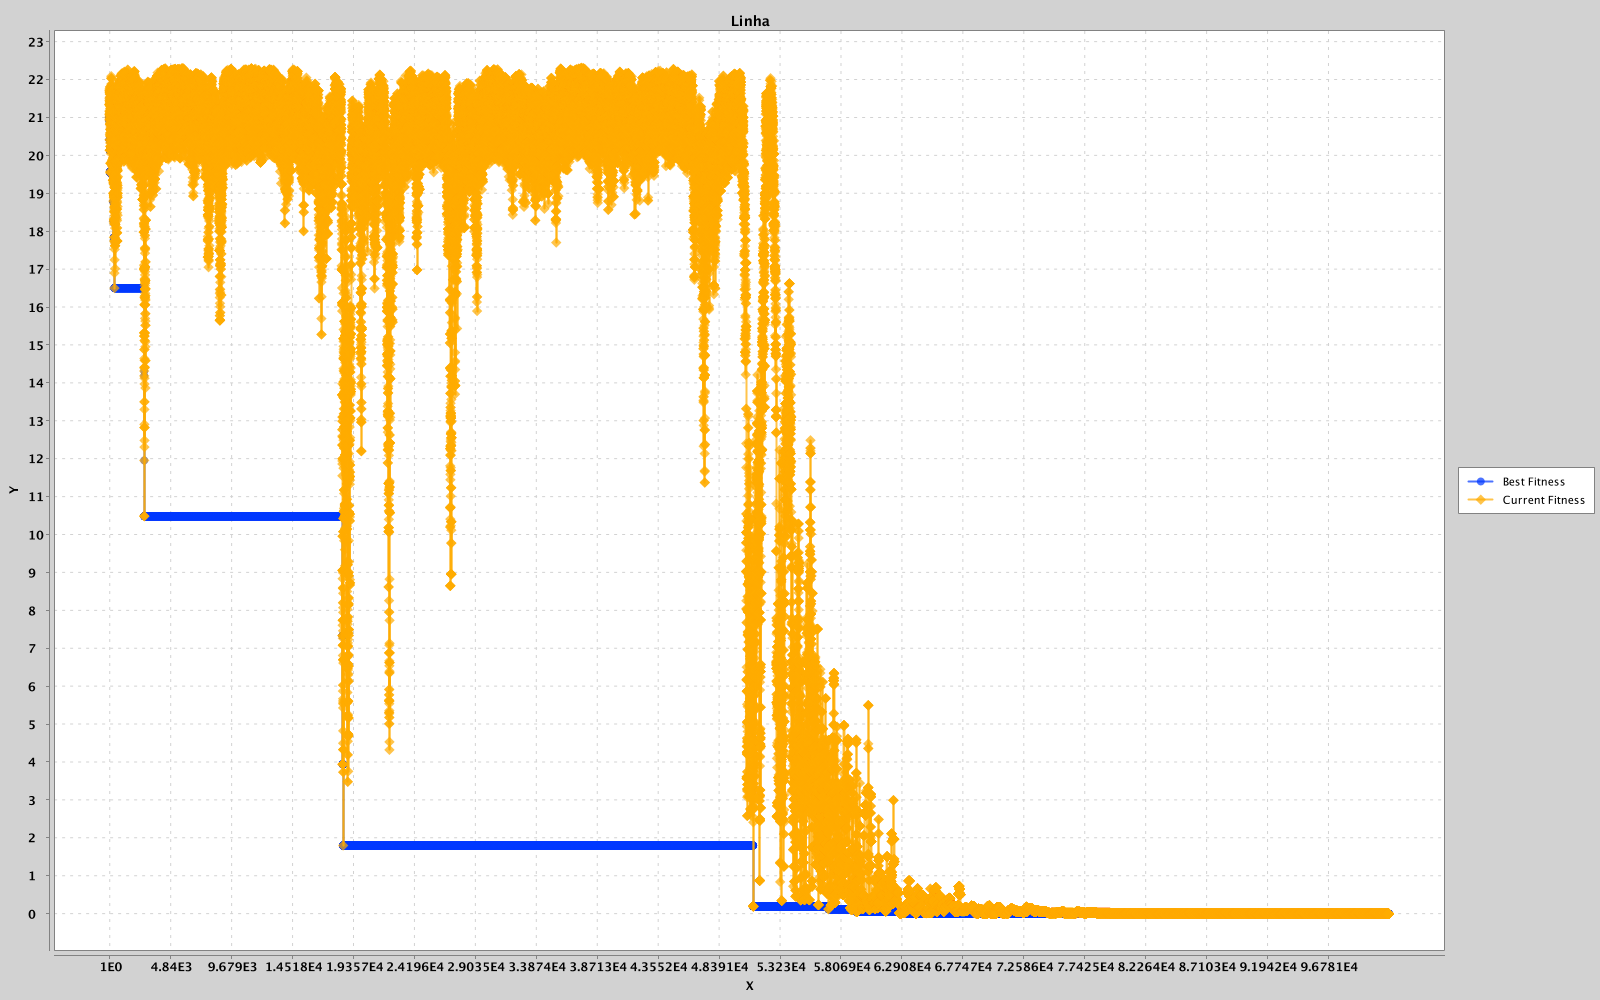
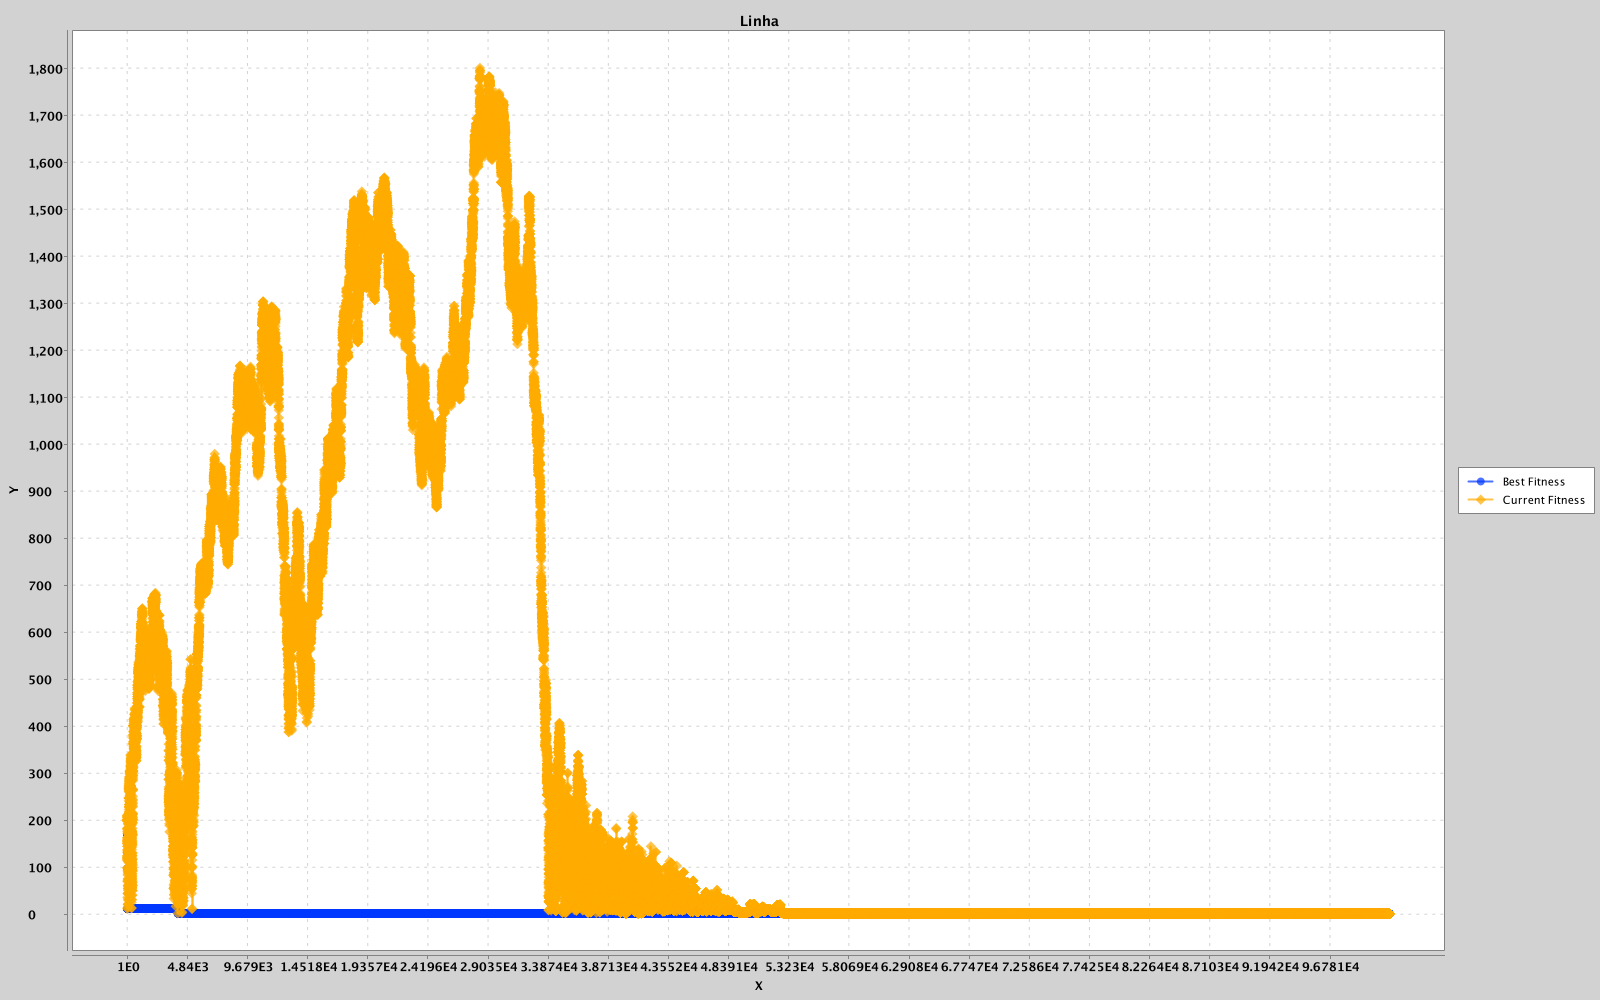
commit

Changed region(s): [[0.0, 0.031, 0.6562, 0.961], [0.0625, 0.961, 0.8438, 0.992]]

diff --git a/src/com/leandersonandre/optimization/Main.java b/src/com/leandersonandre/optimization/Main.java
@@ -7,8 +7,8 @@ import com.leandersonandre.optimization.sa.operator.GaussianOperator;
 public class Main {
     public static void main(String[] args) {
         SimulatedAnnealing sa = new SimulatedAnnealing(
-                FunctionFactory.getInstance().getFunction("ACKLEY"),
-                new GaussianOperator(.3),
+                FunctionFactory.getInstance().getFunction("BUKIN6"),
+                new GaussianOperator(.5),
                 0.96,
                 200,
                 100_000,
